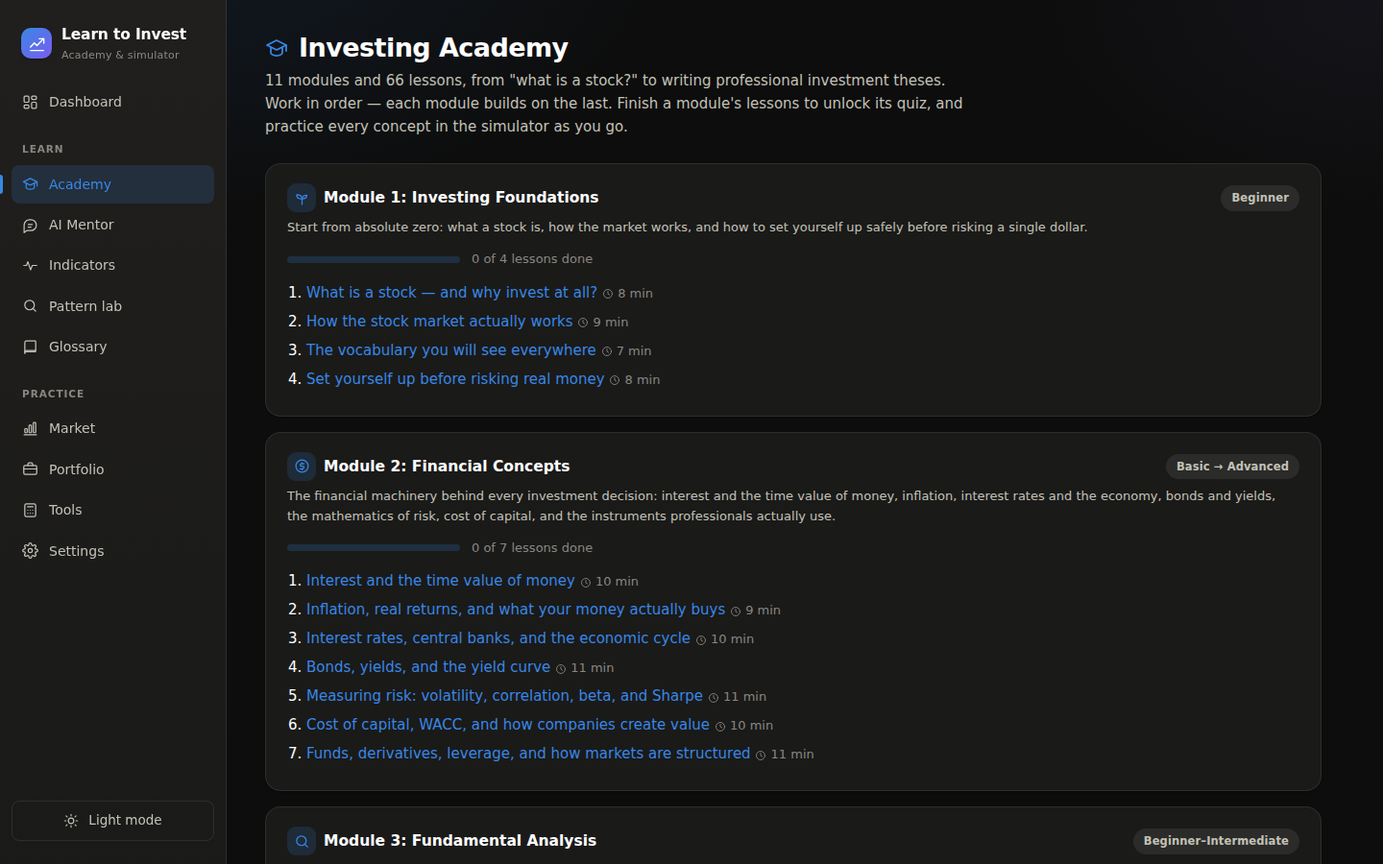
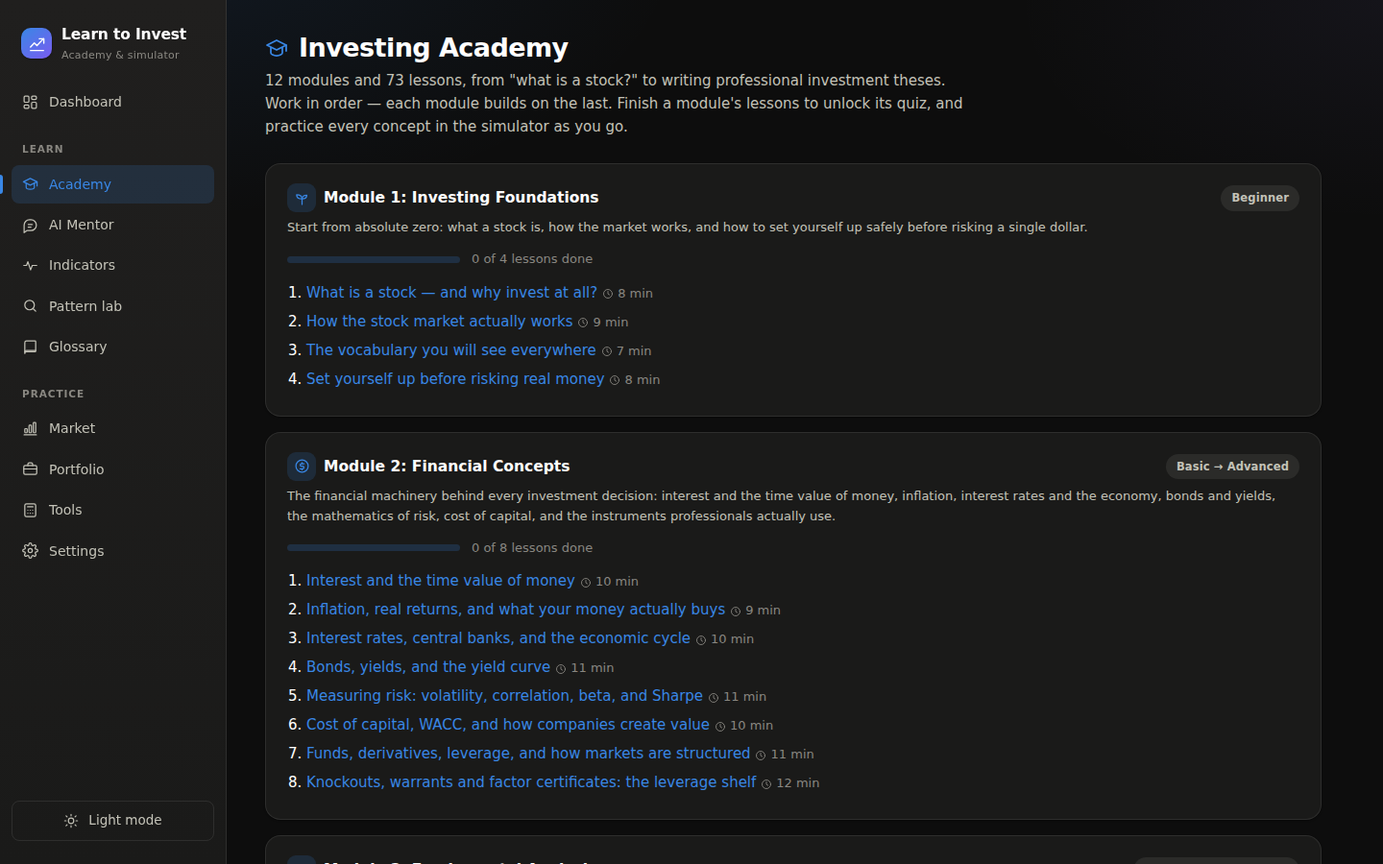
Add a crypto module: differences from stocks, and how to invest if at all
New elective module 10, "Crypto: A Different Asset Class" (6 lessons),
placed after the buy/sell capstone so the full stock framework exists
before crypto departs from it.

- What a cryptocurrency actually is: the ledger, consensus, and
  private-key ideas, and the coin taxonomy from Bitcoin to the long tail.
- Crypto vs stocks, from the root difference (no cash flows, so no
  intrinsic-value anchor) through a dimension-by-dimension table:
  trading hours, volatility, protections, custody, supply, income -
  including what crypto uniquely offers (self-custody, a decade of
  surviving obituaries).
- Plumbing: exchanges vs self-custody vs spot ETFs, "not your keys, not
  your coins" (Mt. Gox, FTX), stablecoins as plumbing not safety, and
  non-negotiable seed-phrase hygiene.
- Analysing a token without fooling yourself: the four questions (real
  usage, tokenomics and unlocks, holder concentration, survived a full
  cycle) plus the base rates on dead tokens.
- If you invest: satellite sizing (1-5%, sized for total loss), DCA,
  wrapper choice, calendar rebalancing, and the written policy - with
  the honest note that zero allocation is an equally defensible policy.
- The risk map: 70-90% drawdowns as the norm, regulatory and technology
  risk, and the scam field guide (rug pulls, pump-and-dumps, seed-phrase
  phishing, guaranteed yield, pig butchering), ending with why 50x
  perpetuals are indefensible for an investor.
[…]

Changed region(s): [[0.2188, 0.9022, 0.5938, 0.9333], [0.1875, 0.9644, 0.4375, 1.0], [0.8125, 0.9333, 0.9375, 0.9956]]

diff --git a/src/data/lessons.js b/src/data/lessons.js
@@ -1865,6 +1865,198 @@ export const MODULES = [
 
   // ------------------------------------------------------------------
   {
+    id: 'crypto',
+    icon: 'lock',
+    level: 'Elective — Intermediate',
+    title: 'Crypto: A Different Asset Class',
+    description: 'What cryptocurrencies actually are, how they differ from stocks at the root (no cash flows, no closing bell, no safety net), how the exchanges and wallets work, how to analyse a token honestly, how to size and invest if you choose to — and the complete field guide to crypto’s risks and scams.',
+    lessons: [
+      {
+        id: 'what-is-crypto',
+        title: 'What a cryptocurrency actually is',
+        minutes: 10,
+        content: [
+          { t: 'p', text: 'Strip away the hype in both directions and a cryptocurrency is a genuinely new kind of thing: **a scarce digital entry on a public ledger that nobody controls**. To decide whether and how to invest in it, you first need the three ideas underneath — a ledger, consensus, and keys.' },
+          { t: 'h', text: 'The three ideas' },
+          { t: 'ul', items: [
+            '**The blockchain is a shared ledger.** Instead of one bank keeping the account book, thousands of computers each hold a full copy and agree on every update. "Who owns what" becomes a public fact that no single company, or government, can quietly edit.',
+            '**Consensus replaces trust.** The copies stay in sync through rules (proof of work, proof of stake) that make cheating cost more than honesty pays. This is the actual invention — money movement without a trusted middleman.',
+            '**A private key is ownership.** Your coins are controlled by whoever knows a secret number — the private key. There is no "forgot password" link and no fraud department. This single fact drives most of crypto’s practical risks, and a later lesson is built on it.',
+          ]},
+          { t: 'h', text: 'Coins are not all the same thing' },
+          { t: 'table', headers: ['Type', 'Example role', 'What you actually hold'], rows: [
+            ['Bitcoin', 'The original — fixed supply of 21 million, marketed as "digital gold"', 'A scarce bearer asset; its entire case is scarcity plus adoption'],
+            ['Platform coins (e.g. Ether)', 'Fuel for a network that runs programs ("smart contracts")', 'A usage-linked asset — demand tied to activity on the network'],
+            ['Stablecoins', 'Tokens pegged 1:1 to a currency like the dollar or euro', 'A claim on the issuer’s reserves — only as good as those reserves'],
+            ['The long tail (thousands of tokens)', 'Everything from serious projects to jokes to outright traps', 'Usually a bet on a story; most go to approximately zero'],
+          ]},
+          { t: 'callout', title: 'The honest one-sentence summary', text: 'Bitcoin and a handful of large networks are a real, tested technology with over a decade of survival. That is a fact about the *technology* — it is not, by itself, an argument about the *price*, which is a separate question the rest of this module takes seriously.' },
+          { t: 'p', text: 'One more piece of vocabulary you will meet everywhere: **halving** (Bitcoin’s new-supply rate cuts in half every four years), **mining/staking** (the work of running the consensus, paid in new coins), and **on-chain** (anything recorded directly on the ledger). None of these are complicated — they are just unfamiliar.' },
+        ],
+      },
+      {
+        id: 'crypto-vs-stocks',
+        title: 'Crypto vs stocks: the differences that actually matter',
+        minutes: 11,
+        content: [
+          { t: 'p', text: 'Everything else in this Academy rests on one quiet foundation: **a stock is a claim on a cash-producing business**. Crypto removes that foundation — and almost every practical difference between the two follows from its absence. This lesson is the map.' },
+          { t: 'h', text: 'The root difference: no cash flows' },
+          { t: 'p', text: 'A share entitles you to a slice of profits — which is why P/E ratios, DCF models, and "is it cheap?" are answerable questions. A coin entitles you to *the coin*. It produces nothing, so there is **no intrinsic-value anchor**: no arithmetic exists that says Bitcoin is "worth" $40,000 rather than $4,000 or $400,000. Its price is set entirely by what the next buyer will pay — supply, demand, adoption and belief.' },
+          { t: 'callout', warn: true, title: 'What this deletes from your toolkit', text: 'Fundamental analysis, valuation ratios, margin-of-safety buying, and the broken-thesis checklist all assume cash flows to analyse. In crypto they have no target. What survives from this Academy: position sizing, diversification, chart reading, base rates, the psychology module — the tools about *you and prices*, not the tools about *business value*.' },
+          { t: 'h', text: 'The practical differences' },
+          { t: 'table', headers: ['Dimension', 'Stocks', 'Crypto'], rows: [
+            ['Backing', 'A business with revenue, assets, profits', 'A network and its adoption; nothing redeems a coin'],
+            ['Valuation', 'Anchored (imperfectly) by earnings', 'No anchor — narrative, flows and scarcity'],
+            ['Trading hours', 'Exchange hours, with closing bells and circuit breakers', '24/7/365 — crashes happen on Sunday at 3am'],
+            ['Volatility', 'A wild stock swings 5% in a day', '20% daily moves are unremarkable; 80% drawdowns have hit even Bitcoin repeatedly'],
+            ['Investor protection', 'Regulated exchanges, audited reports, deposit insurance in many markets', 'Thin and uneven; exchange failures have vaporised customer funds'],
+            ['Custody', 'Broker holds shares in your name; recoverable', 'Whoever holds the key holds the asset; theft and loss are usually final'],
+            ['Supply', 'Share count changes slowly, disclosed', 'Defined by code ("tokenomics") — anywhere from fixed to quietly inflationary'],
+            ['Income', 'Dividends from profits', 'Staking yield exists but is paid in more of the same token, not from external earnings'],
+          ]},
+          { t: 'h', text: 'What crypto has that stocks do not' },
+          { t: 'ul', items: [
+            '**Self-custody is possible** — you can genuinely hold the asset yourself, with no intermediary able to freeze or lose it. Unique, real, and a double-edged sword.',
+            '**Low historical correlation (sometimes).** Crypto has at times moved independently of stocks — a diversification argument — but in every recent panic it fell *with* risk assets, only harder. Do not count on it as a hedge.',
+            '**A decade-plus of surviving obituaries.** Bitcoin has been declared dead hundreds of times and has so far recovered from every 80% drawdown. "So far" is carrying weight — but it is a real track record, not nothing.',
+          ]},
+          { t: 'p', text: 'The intellectually honest position sits between the cults: crypto is neither guaranteed digital gold nor an obvious fraud. It is a **young, unanchored, extremely volatile asset** whose long-term value depends on adoption that may or may not continue. That uncertainty is exactly why the sizing rules in lesson five are strict.' },
+        ],
+      },
+      {
+        id: 'crypto-plumbing',
+        title: 'Exchanges, wallets and custody: not your keys, not your coins',
+        minutes: 10,
+        content: [
+          { t: 'p', text: 'In stocks, the plumbing is boring because regulation made it boring: your broker fails, your shares are still yours. Crypto’s plumbing is **part of the risk itself**, and choosing where your coins live is as important as choosing which coins.' },
+          { t: 'h', text: 'The three places crypto can live' },
+          { t: 'ul', items: [
+            '**On an exchange (custodial).** Convenient — but legally you often hold an IOU from a company, not coins. Exchange collapses (Mt. Gox 2014, FTX 2022) turned "my crypto" into "my claim in a bankruptcy" overnight. The crypto-native rule is blunt: **not your keys, not your coins.**',
+            '**In your own wallet (self-custody).** A wallet app or hardware device holding your private key, backed up by a **seed phrase** — 12–24 words that ARE the money. Anyone who reads them owns your coins; lose them and no one on earth can recover the funds. Total control, total responsibility.',
+            '**Inside a regulated wrapper (ETF/ETP).** Spot Bitcoin and Ether ETFs trade in a normal brokerage account: no keys, no seed phrases, familiar taxes and protections, small annual fee. For most stock investors adding a small crypto allocation, this is the sane default.',
+          ]},
+          { t: 'table', headers: ['Route', 'You control keys?', 'Main risk', 'Best for'], rows: [
+            ['Exchange account', 'No', 'Exchange failure or freeze', 'Small amounts, active trading'],
+            ['Hardware wallet', 'Yes', 'Your own mistakes: lost or leaked seed phrase', 'Larger long-term holdings, technical confidence'],
+            ['Spot ETF/ETP', 'No (professional custodian)', 'Fee drag; only the biggest coins available', 'Most investors coming from stocks'],
+          ]},
+          { t: 'h', text: 'Stablecoins and the trading pairs' },
+          { t: 'p', text: 'Most crypto trading is priced against **stablecoins** (USDT, USDC) — tokens meant to always be worth $1. They are the plumbing’s plumbing: useful for moving between positions, but each one is a claim on its issuer’s reserves, and stablecoins have broken their peg before. Money you have moved "to safety" in a stablecoin is parked *on* someone’s balance sheet, not outside the system.' },
+          { t: 'callout', warn: true, title: 'Practical hygiene, non-negotiable', text: 'Never type a seed phrase into a website, ever — this single sentence defeats the majority of crypto theft. Store it on paper or metal, offline, never photographed. Enable two-factor authentication on exchanges (an authenticator app, not SMS). Send a small test amount before any large transfer — transactions are irreversible, and an address typo is a donation to nobody.' },
+        ],
+      },
+      {
+        id: 'analysing-crypto',
+        title: 'Analysing a crypto asset without fooling yourself',
+        minutes: 10,
+        content: [
+          { t: 'p', text: 'You cannot run a DCF on a coin — but "no valuation anchor" does not mean "no analysis possible". It means the questions change: from *what is this worth?* to **what would have to be true for this to be adopted, and is the token even designed to capture that adoption?**' },
+          { t: 'h', text: 'The four questions' },
+          { t: 'ol', items: [
+            '**What problem does the network claim to solve, and is anyone actually using it?** Look for usage that is not just speculation about the token itself: real transactions, applications, developers building. A network whose only activity is trading its own coin is a casino with a whitepaper.',
+            '**Tokenomics: what happens to supply?** Fixed cap or endless issuance? How much is already circulating vs. reserved for insiders and early investors — and when do those tokens **unlock**? A great project whose supply doubles in two years needs its demand to double just to stand still. This is the crypto version of share dilution, often 10× more aggressive.',
+            '**Who holds it?** Ledgers are public: if a handful of wallets control most of the supply, the price is at their mercy. Concentrated ownership plus thin liquidity is the recipe for manipulation.',
+            '**Has it survived a full cycle?** Crypto moves in brutal boom-bust cycles. A project that kept its developers, users and liquidity through an 80% drawdown has passed the only stress test that matters. A token that has only existed in a bull market has never been tested at all.',
+          ]},
+          { t: 'h', text: 'Know the base rates' },
+          { t: 'p', text: 'Apply the Prediction module’s discipline here, because crypto is where it is needed most. The base rates are stark: **thousands of tokens from the 2017 and 2021 booms are at effectively zero**; the majority of all tokens ever launched are dead or abandoned; and even the survivors’ returns concentrate overwhelmingly in the two largest networks. "Which coin will 100×?" has the same statistical structure as "which lottery ticket should I buy?" — the honest question is whether the *asset class* deserves a small allocation at all.' },
+          { t: 'callout', warn: true, title: 'Narrative is not analysis', text: 'Every cycle produces a story so good it feels like research — digital gold, the new internet, tokenised everything. Stories matter (adoption is partly narrative), but a story with no usage, hostile tokenomics and three wallets holding half the supply is still a bad asset with good marketing. Run the four questions *especially* when the story is beautiful.' },
+        ],
+      },
+      {
+        id: 'investing-in-crypto',
+        title: 'If you invest: sizing, method, and rules',
+        minutes: 10,
+        content: [
+          { t: 'p', text: 'Suppose you have done the reading and decided crypto earns a place in your portfolio. The decision that now dominates everything — more than which coin, more than when — is **how much**. Get sizing right and every other mistake is survivable; get it wrong and being right about crypto’s future can still ruin you on the way there.' },
+          { t: 'h', text: 'Sizing: the satellite rule' },
+          { t: 'ul', items: [
+            'Treat crypto as a **satellite position: commonly 1–5% of the portfolio**, funded with money whose total loss you can absorb. At 5%, even a 100% loss costs you one bad year of stock returns; a 10× gain still moves your net worth meaningfully. That asymmetry is the entire rational case for a small allocation.',
+            '**Volatility does the sizing arithmetic for you.** An asset that routinely draws down 80% must be sized so that an 80% drawdown is boring. The Risk Management position-sizing logic applies unchanged — crypto just plugs uglier numbers into it.',
+            '**Concentrate on the survivors.** If the thesis is "this asset class may keep being adopted", the two largest networks carry that thesis with far less single-project risk than the long tail. The long tail is venture capital without the diversification, information, or legal protections.',
+          ]},
+          { t: 'h', text: 'Method: boring on purpose' },
+          { t: 'ul', items: [
+            '**Dollar-cost average.** Crypto’s volatility makes lump-sum timing agonising and DCA psychologically survivable. A fixed small amount monthly removes the worst enemy — buying big at euphoric tops.',
+            '**Pick the wrapper deliberately** (previous lesson): ETF for simplicity and protections, self-custody for sovereignty, exchange only as a waypoint.',
+            '**Rebalance on a calendar.** After a crypto boom, your 3% can quietly become 15% of the portfolio — far more risk than you chose. Trimming back to target is the mechanical way to sell euphoria and buy despair, no forecasting required.',
+            '**Write the policy before buying** — allocation, wrapper, schedule, rebalancing band, and what you will do at −80% (the honest answer must be "nothing I have not planned"). This is your Investment Policy Statement extended to one more asset.',
+          ]},
+          { t: 'example', title: 'A worked setup', text: 'Portfolio $20,000. Policy: 4% target in crypto ($800), via a spot Bitcoin ETF, bought as $100/month for 8 months, rebalanced annually back to 4% whenever it drifts past 6% or under 2%. At −80%, the damage is capped near 3% of the portfolio; the plan’s only demand is that you keep following it. Notice what is absent: charts, predictions, and any opinion about next month.' },
+          { t: 'callout', title: 'What professionals actually disagree about', text: 'Serious investors genuinely disagree on crypto — some allocate a few percent as an asymmetric bet or portfolio diversifier, others hold zero on the grounds that an unanchored asset cannot be underwritten at all. **Both are defensible written policies.** What is not defensible is the middle path most beginners take: an unsized, unplanned position bought in a bull market because the number was going up.' },
+        ],
+      },
+      {
+        id: 'crypto-risks',
+        title: 'The crypto risk map: failures, scams, and leverage',
+        minutes: 11,
+        content: [
+          { t: 'p', text: 'Crypto compresses every risk in this Academy into one asset class, adds several of its own, and removes most of the safety nets. This lesson is the complete map — because in crypto, unlike stocks, the biggest dangers are usually **not the price**.' },
+          { t: 'h', text: 'Structural risks (nobody’s fault, always present)' },
+          { t: 'ul', items: [
+            '**Drawdowns of 70–90% are the historical norm**, not the disaster scenario — even for Bitcoin, even in cycles that ended at new highs. Your plan either survives that on paper or it fails in practice.',
+            '**Regulatory risk** — rules are still forming and differ by country: taxation, exchange access, even legality can shift with one announcement.',
+            '**Technology risk** — bugs, network attacks, and the quiet long-term question every protocol faces from newer rivals.',
+            '**Liquidity risk in the long tail** — small tokens can be easy to buy and nearly impossible to sell at anything like the quoted price.',
+          ]},
+          { t: 'h', text: 'The scam field guide' },
+          { t: 'p', text: 'Crypto’s irreversibility and anonymity make it the natural habitat of financial predators. The patterns repeat; learn them once:' },
+          { t: 'ul', items: [
+            '**Rug pulls** — a token is launched, hyped, and its creators drain the liquidity and vanish. Favourite habitat: brand-new tokens with anonymous teams and locked-nothing.',
+            '**Pump and dumps** — coordinated groups inflate a small token to sell into the buyers they recruited. If a stranger is telling you about a coin, ask what they gain.',
+            '**Phishing for seed phrases** — fake wallet apps, fake support agents, fake "validation" sites. Repeated because it matters: *no legitimate service ever needs your seed phrase.*',
+            '**Guaranteed-yield platforms** — "20% APY, risk free" preceded several of the biggest collapses in crypto history. Yield always comes from somewhere; if you cannot name the source, you are the source.',
+            '**Romance/"pig butchering" scams** — a patient online friendship steering you to a fake exchange that shows fake profits until you try to withdraw. Industrial-scale and devastating; the tell is *anyone you met online directing your investments*.',
+            '**Fake giveaways and impersonation** — "send 1 coin, receive 2 back" from a celebrity account. Nobody doubles money. Ever.',
+          ]},
+          { t: 'h', text: 'Crypto leverage: the multiplier on all of it' },
+          { t: 'p', text: 'Crypto exchanges offer **perpetual futures** at 10×, 50×, even 100× leverage — on an asset that moves 20% in a day, trading 24/7 while you sleep. The knockout-certificate lesson’s warnings apply squared: at 50× leverage a 2% wiggle liquidates you, and billions in positions are liquidated in ordinary weeks. Leveraged crypto trading is the single fastest wealth destroyer available to a retail account, and no part of the investment case for crypto — the entire case is long-horizon adoption — requires it.' },
+          { t: 'callout', warn: true, title: 'The one-paragraph defence', text: 'Buy only through channels you chose deliberately; hold via ETF or properly stored keys; size for total loss; never touch leverage; never act on DMs, guaranteed yields, or urgency; and treat your seed phrase like the bearer bond it is. Do those six things and you have avoided nearly every catastrophe on this page — leaving only the honest risk you signed up for: a volatile, unanchored asset that may or may not keep being adopted.' },
+        ],
+      },
+    ],
+    quiz: [
+      {
+        q: 'What is the root difference between a stock and a cryptocurrency?',
+        options: ['Stocks trade on weekdays only, crypto trades 24/7', 'A stock is a claim on a cash-producing business; a coin produces nothing, so its price has no intrinsic-value anchor', 'Crypto is digital while stocks are paper certificates', 'Stocks are volatile while crypto is stable'],
+        answer: 1,
+        explain: 'The 24/7 trading is real but cosmetic. No cash flows means no valuation arithmetic — which is why fundamental analysis has no target in crypto and sizing discipline matters even more.',
+      },
+      {
+        q: 'What does "not your keys, not your coins" mean in practice?',
+        options: ['Hardware wallets are illegal in some countries', 'Exchanges charge fees for withdrawals', 'Crypto held on an exchange is legally an IOU from that company — if it fails, you are a creditor in its bankruptcy', 'You need a government licence to hold crypto directly'],
+        answer: 2,
+        explain: 'Mt. Gox and FTX customers learned this the hard way: coins in an exchange account are controlled by whoever holds the keys, and that is the exchange.',
+      },
+      {
+        q: 'A new token has brilliant marketing, an anonymous team, most supply held by a few wallets, and large insider unlocks scheduled next year. The four-question analysis says:',
+        options: ['Buy early before the unlocks', 'The marketing quality outweighs the tokenomics', 'Wait for the price to confirm the story', 'Concentrated ownership plus heavy future supply is a bad asset regardless of how good the story is'],
+        answer: 3,
+        explain: 'Narrative is not analysis. Hostile tokenomics and concentrated holdings describe the mechanics of your future loss, and no story changes the arithmetic.',
+      },
+      {
+        q: 'What is the main rationale for capping crypto at a small satellite allocation (commonly 1–5%)?',
+        options: ['A total loss at that size is absorbable while a large gain still moves the portfolio — the asymmetry is the case', 'Regulators forbid larger allocations', 'Small positions are taxed at lower rates', 'It guarantees a profit over ten years'],
+        answer: 0,
+        explain: 'Sizing for total loss makes every other crypto mistake survivable. At 5%, even −100% costs about one bad year of stock returns; the upside asymmetry survives intact.',
+      },
+      {
+        q: 'A platform offers a guaranteed 20% annual yield on your stablecoins. The correct response is:',
+        options: ['Deposit a small test amount first', 'Ask where the yield comes from — and if the answer is missing or circular, walk away: you are the yield', 'Deposit only stablecoins, since they cannot lose value', 'Check whether the platform has a mobile app'],
+        answer: 1,
+        explain: 'Guaranteed high yield preceded the biggest collapses in crypto history. Yield always has a source; unnameable sources are new depositors — until they stop coming.',
+      },
+      {
+        q: 'Why is 50× leverage on a crypto perpetual future practically indefensible for an investor?',
+        options: ['Because leverage is only available to institutions', 'Because it caps the possible profit', 'Because a routine 2% wiggle — on an asset that moves 20% in a day, around the clock — liquidates the entire position', 'Because perpetual futures expire monthly'],
+        answer: 2,
+        explain: 'The investment case for crypto is long-horizon adoption, which requires surviving volatility. High leverage guarantees you will not — ordinary noise becomes total loss.',
+      },
+    ],
+  },
+
+  // ------------------------------------------------------------------
+  {
     id: 'psychology',
     icon: 'brain',
     level: 'Intermediate',

diff --git a/src/lib/mentor.js b/src/lib/mentor.js
@@ -55,7 +55,7 @@ You have two decades of experience covering companies: reading financial stateme
 # How to teach
 Answer the question that was asked, then teach the transferable principle behind it. When the user asks about a specific company or trade, walk through your reasoning in the order an analyst would: what the business does, what the numbers say, what the price assumes, what the chart says about timing, and what could go wrong. Show the arithmetic when a number matters — a beginner learns more from "20 ÷ 4 = a P/E of 5" than from the conclusion alone.
 
-Use the app's own curriculum as your shared vocabulary. The eleven modules are: Investing Foundations; Financial Concepts (time value of money, inflation, rates and the economy, bonds and yields, risk mathematics, cost of capital, instruments and leverage, knockout certificates / warrants / factor certificates); Fundamental Analysis; Reading Charts from Zero (chart and candlestick anatomy, timeframes, volume, scales and gaps, a five-step chart-reading workflow); Technical Analysis & Timing; Prediction & Pattern Recognition (base rates, chart and candlestick patterns, seasonality, back-testing traps, probabilistic thinking); Company Events & the Big Picture (earnings reports, dividends and buybacks, corporate actions, economic indicators, cycles and sector rotation, bear markets); Risk Management; When to Buy, When to Sell (watchlists, the five-gate buy checklist, entry methods, overvaluation, broken theses, the exit playbook, holding); Psychology & Strategy; and Think Like a Business Analyst. When a question maps onto a lesson the user has not done yet, answer it fully first and then point them to the module by name.
+Use the app's own curriculum as your shared vocabulary. The twelve modules are: Investing Foundations; Financial Concepts (time value of money, inflation, rates and the economy, bonds and yields, risk mathematics, cost of capital, instruments and leverage, knockout certificates / warrants / factor certificates); Fundamental Analysis; Reading Charts from Zero (chart and candlestick anatomy, timeframes, volume, scales and gaps, a five-step chart-reading workflow); Technical Analysis & Timing; Prediction & Pattern Recognition (base rates, chart and candlestick patterns, seasonality, back-testing traps, probabilistic thinking); Company Events & the Big Picture (earnings reports, dividends and buybacks, corporate actions, economic indicators, cycles and sector rotation, bear markets); Risk Management; When to Buy, When to Sell (watchlists, the five-gate buy checklist, entry methods, overvaluation, broken theses, the exit playbook, holding); Crypto: A Different Asset Class (what crypto is, differences from stocks — no cash flows and no valuation anchor, custody and "not your keys, not your coins", analysing tokenomics, satellite sizing and DCA, risks and scams); Psychology & Strategy; and Think Like a Business Analyst. When a question maps onto a lesson the user has not done yet, answer it fully first and then point them to the module by name.
 
 When you use data from the CURRENT APP STATE below, say where the number came from so the user learns to find it themselves next time.
 

diff --git a/src/data/glossary.js b/src/data/glossary.js
@@ -178,4 +178,17 @@ export const GLOSSARY = [
   { term: 'Time decay (theta)', def: 'The daily loss of an option\'s or warrant\'s time value, accelerating toward expiry. Being right slowly is a losing trade in decaying instruments.' },
   { term: 'Volatility drag', def: 'The arithmetic loss from compounding leveraged daily returns through chop: +30% then -27.3% is -5.5%, not zero. The structural enemy of factor certificates held long.' },
   { term: 'Warrant', def: 'A securitized call or put option issued by a bank: strike, expiry, premium. Priced by direction, time AND implied volatility — you must be right about all three.' },
+
+  // --- Crypto ---
+  { term: 'Altcoin', def: 'Any cryptocurrency other than Bitcoin. The long tail numbers in the thousands, and most of it goes to approximately zero across a full cycle.' },
+  { term: 'Blockchain', def: 'A shared public ledger kept in sync by thousands of computers, so "who owns what" is a fact no single company or government can quietly edit.' },
+  { term: 'Cold wallet', def: 'A hardware device or offline store for private keys, disconnected from the internet. The safest self-custody — and only as safe as the seed phrase backing it.' },
+  { term: 'Halving', def: 'Bitcoin\'s scheduled supply cut: the rate of new coins halves roughly every four years, enforcing the path to its fixed 21 million cap.' },
+  { term: 'Perpetual futures', def: 'Crypto derivatives with no expiry offering leverage up to 100x. On an asset that moves 20% in a day, routine noise liquidates leveraged positions — the fastest wealth destroyer in retail finance.' },
+  { term: 'Private key / seed phrase', def: 'The secret that IS ownership of crypto: 12-24 words that control the funds. Anyone who reads them owns your coins; lose them and nobody can recover the funds. No legitimate service ever asks for them.' },
+  { term: 'Rug pull', def: 'A token launched, hyped, and drained by its own creators. Habitat: brand-new tokens, anonymous teams, unlocked liquidity.' },
+  { term: 'Spot crypto ETF', def: 'A regulated fund holding crypto, traded in a normal brokerage account — no keys or seed phrases, familiar protections, a small annual fee. The sane default wrapper for most stock investors.' },
+  { term: 'Stablecoin', def: 'A token pegged 1:1 to a currency like the dollar, backed by the issuer\'s reserves — and only as good as those reserves. Plumbing, not safety.' },
+  { term: 'Staking', def: 'Locking coins to help run a proof-of-stake network in exchange for yield — paid in more of the same token, not from external earnings like a dividend.' },
+  { term: 'Tokenomics', def: 'A token\'s supply design: cap or inflation, insider allocations, and unlock schedules. The crypto version of share dilution, often far more aggressive — hostile tokenomics defeats good stories.' },
 ]

diff --git a/src/components/icons.jsx b/src/components/icons.jsx
@@ -178,7 +178,7 @@ export const ICONS = {
   sprout: IconSprout, search: IconSearch, trend: IconTrend,
   shield: IconShield, brain: IconBrain, analyst: IconAnalyst,
   finance: IconFinance, pulse: IconPulse, compass: IconCompass,
-  scale: IconScale,
+  scale: IconScale, lock: IconLock,
 }
 
 export function Icon({ name, ...rest }) {

diff --git a/README.md b/README.md
@@ -12,7 +12,7 @@ No backend, no accounts, no real money at risk. Everything runs in your browser.
 
 ## Contents
 
-- [Investing Academy](#investing-academy) — 11 modules, 67 lessons, quizzes
+- [Investing Academy](#investing-academy) — 12 modules, 73 lessons, quizzes
 - [Indicator reference](#indicator-reference) — all 17 indicators, drawn and explained
 - [Pattern lab](#pattern-lab) — back-test 22 signals against their own baseline
 - [AI Mentor](#ai-mentor) — chat with a senior analyst about your own portfolio
@@ -26,7 +26,7 @@ No backend, no accounts, no real money at risk. Everything runs in your browser.
 
 ## Investing Academy
 
-Eleven modules and 67 lessons that take you from "what is a stock?" to writing professional
+Twelve modules and 73 lessons that take you from "what is a stock?" to writing professional
 investment theses — modelled on the arc of full investing curricula: foundations → concepts →
 analysis → charts → timing → events → risk → decisions → psychology. Each module ends with a
 quiz, and your progress is saved locally.
@@ -42,8 +42,9 @@ quiz, and your progress is saved locally.
 | 7 | **Company Events & the Big Picture** | Earnings reports and the expectations game, dividends and buybacks, splits / IPOs / spin-offs and other corporate actions, the economic data that moves whole markets, sector rotation across the cycle, and surviving bear markets |
 | 8 | **Risk Management** | Position sizing (the 1–2% rule), stop losses, diversification, risk/reward math, and the traps that destroy beginners |
 | 9 | **When to Buy, When to Sell** | Watchlists, the five-gate buy checklist, lump sum vs scaling in, recognising when a price has outrun the value, the broken-thesis checklist, the exit playbook, and holding as a skill |
-| 10 | **Psychology & Strategy** | Behavioral biases, choosing a strategy, when to sell, and writing your own investment policy statement |
-| 11 | **Think Like a Business Analyst** | Business models, unit economics, Porter's Five Forces, SWOT, moat durability, DCF valuation, and investment theses |
+| 10 | **Crypto: A Different Asset Class** *(elective)* | What a cryptocurrency actually is, the root differences from stocks (no cash flows, no valuation anchor, no safety net), exchanges / wallets / custody and "not your keys, not your coins", analysing tokenomics honestly, satellite sizing with DCA and rebalancing, and the full risk-and-scam field guide |
+| 11 | **Psychology & Strategy** | Behavioral biases, choosing a strategy, when to sell, and writing your own investment policy statement |
+| 12 | **Think Like a Business Analyst** | Business models, unit economics, Porter's Five Forces, SWOT, moat durability, DCF valuation, and investment theses |
 
 ![Academy](docs/screenshots/academy.png)
 
@@ -77,6 +78,12 @@ exit playbook.
 ![Candlestick lesson](docs/screenshots/lesson-charts.png)
 
 ![Buy checklist lesson](docs/screenshots/lesson-decisions.png)
+
+The crypto elective takes neither cult's side: it explains what the technology actually is, why
+the absence of cash flows deletes most of the valuation toolkit, how custody and wrappers work,
+and how to size a position — if any — so that crypto's routine 80% drawdowns are survivable.
+
+![Crypto lesson](docs/screenshots/lesson-crypto.png)
 
 ---
 
@@ -207,7 +214,7 @@ safety.
 
 ![Tools](docs/screenshots/tools.png)
 
-There's also a searchable 155-term glossary in plain English.
+There's also a searchable 166-term glossary in plain English.
 
 ![Glossary](docs/screenshots/glossary.png)
 
